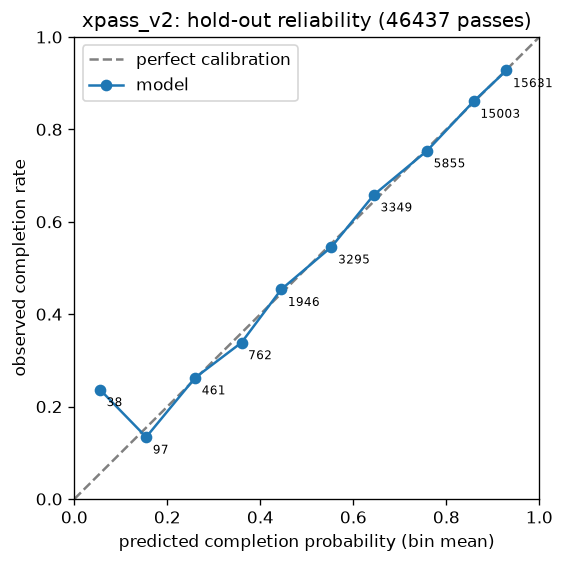
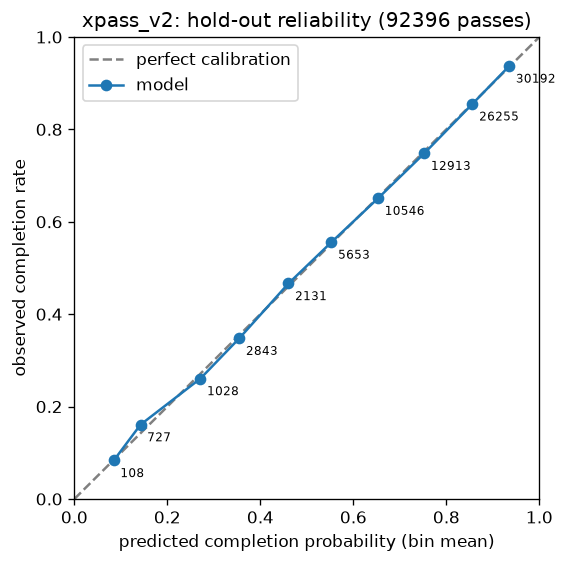
Retrain the pass model on generated matches and record its metrics

diff --git a/scripts/make_dataset.py b/scripts/make_dataset.py
@@ -1,12 +1,13 @@
 """
 Build the xPass training and hold-out tables from generated matches.
 
-Train: seeds 1-201 without 42 (200 matches). Hold-out: seeds 1001-1050 (50 matches). Seed 42 is the
-demo match and is in neither set. Each row is one pass: the 17 FEATURE_ORDER columns (built by
+Train: the first --train-matches seeds from 1, skipping 42 (default 250: seeds 1..251 without 42).
+Hold-out: --holdout-matches seeds from 2001 (default 100: seeds 2001..2100). Seed 42 is the demo match and is
+in neither set. Each row is one pass: the 17 FEATURE_ORDER columns (built by
 xplain.features from PassInputs only, so no end-derived field), completed (0/1) and match_id.
 
 Usage:
-    python scripts/make_dataset.py [--out data]
+    python scripts/make_dataset.py [--out data] [--train-matches 250] [--holdout-matches 100]
 """
 from __future__ import annotations
 
@@ -25,8 +26,16 @@ from xplain.generator import generate_match  # noqa: E402
 from xplain.train import pass_table  # noqa: E402
 
 DEMO_SEED = 42
-TRAIN_SEEDS = tuple(s for s in range(1, 202) if s != DEMO_SEED)
-HOLDOUT_SEEDS = tuple(range(1001, 1051))
+HOLDOUT_START = 2001
+
+
+def train_seeds(n: int) -> tuple[int, ...]:
+    """The first n seeds from 1, skipping the demo seed."""
+    return tuple(s for s in range(1, n + 2) if s != DEMO_SEED)[:n]
+
+
+def holdout_seeds(n: int) -> tuple[int, ...]:
+    return tuple(range(HOLDOUT_START, HOLDOUT_START + n))
 
 
 def build(seeds: tuple[int, ...]) -> pd.DataFrame:
@@ -36,18 +45,22 @@ def build(seeds: tuple[int, ...]) -> pd.DataFrame:
 def main() -> int:
     parser = argparse.ArgumentParser(description="Generate matches and write the xPass train / hold-out tables.")
     parser.add_argument("--out", type=Path, default=ROOT / "data")
+    parser.add_argument("--train-matches", type=int, default=250)
+    parser.add_argument("--holdout-matches", type=int, default=100)
     args = parser.parse_args()
-    assert DEMO_SEED not in TRAIN_SEEDS and DEMO_SEED not in HOLDOUT_SEEDS
-    assert not set(TRAIN_SEEDS) & set(HOLDOUT_SEEDS) and len(TRAIN_SEEDS) == 200
+    train, holdout = train_seeds(args.train_matches), holdout_seeds(args.holdout_matches)
+    assert DEMO_SEED not in train and DEMO_SEED not in holdout
+    assert not set(train) & set(holdout), "train seeds reach the hold-out range"
+    assert len(train) == args.train_matches and len(holdout) == args.holdout_matches
 
     args.out.mkdir(parents=True, exist_ok=True)
-    for name, seeds in (("train", TRAIN_SEEDS), ("holdout", HOLDOUT_SEEDS)):
+    for name, seeds in (("train", train), ("holdout", holdout)):
         start = time.perf_counter()
         table = build(seeds)
         path = args.out / f"xpass_{name}.csv"
         table.to_csv(path, index=False)
-        print(f"{name}: {len(seeds)} matches, {len(table)} passes, completion {table['completed'].mean():.4f}, "
-              f"{time.perf_counter() - start:.1f} s -> {path}")
+        print(f"{name}: seeds {seeds[0]}-{seeds[-1]}, {len(seeds)} matches, {len(table)} rows, "
+              f"completion {table['completed'].mean():.4f}, {time.perf_counter() - start:.1f} s -> {path}")
     return 0
 
 

diff --git a/models/README.md b/models/README.md
@@ -1,13 +1,14 @@
 # Model artifacts
 
-The xPass model file is **not in git**: it is 134.8 MB, over GitHub's 100 MB file limit.
+The xPass model is trained in this repo, on generated matches only (`scripts/make_dataset.py`,
+then `python -m xplain.train`; see the main README). The scorer loads, by default,
+`models/xpass_v2/` (`config.XPASS_MODEL_PATH`):
 
-Put both files from the same xPass-Project training run in `models/xpass/`:
+- `xpass_v2.joblib`: CalibratedClassifierCV (isotonic, 5 match-grouped folds) over XGBClassifier
+  (ignored by git; rebuild it with the commands above)
+- `feature_list.json`: the exact feature columns, in order, the model expects
+- `metrics.json`: training settings (chosen depth and tree count, validation log-loss)
 
-- `xpass_production_<timestamp>.joblib`: calibrated XGBoost pass-completion model (ignored by git)
-- `feature_list.json`: the exact feature columns, in order, the model expects (tracked)
-
+Set `XPLAIN_MODEL_PATH` (and optionally `XPLAIN_FEATURE_LIST`) to load another model file.
 The feature builder rejects a `feature_list.json` whose columns or order differ from
 `xplain.features.FEATURE_ORDER`. Load the model with the pinned versions in `requirements.txt`.
-
-TODO: download location for the .joblib (GitHub release asset or Azure Blob).
